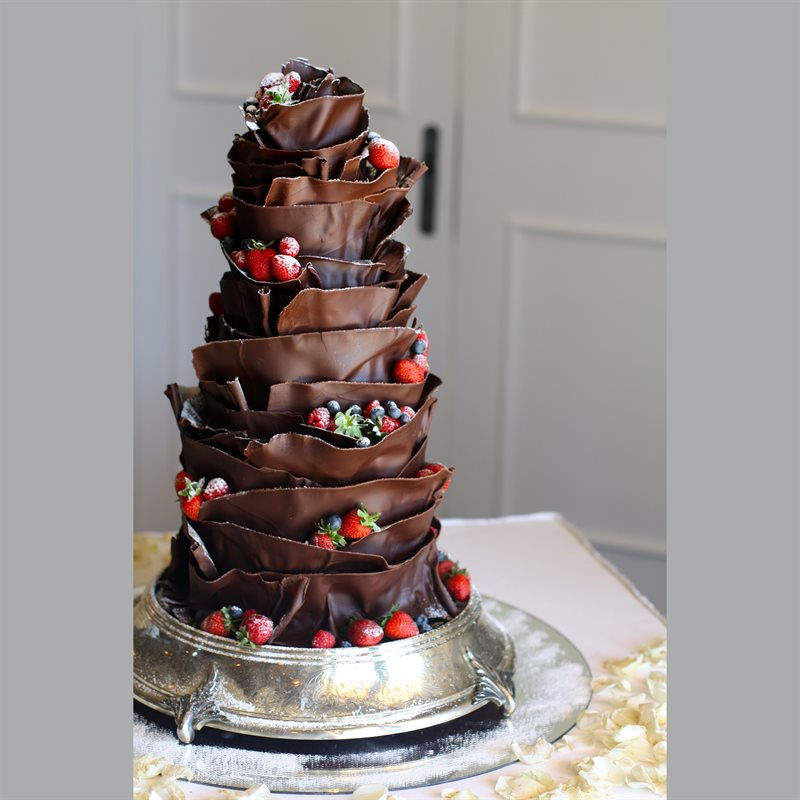
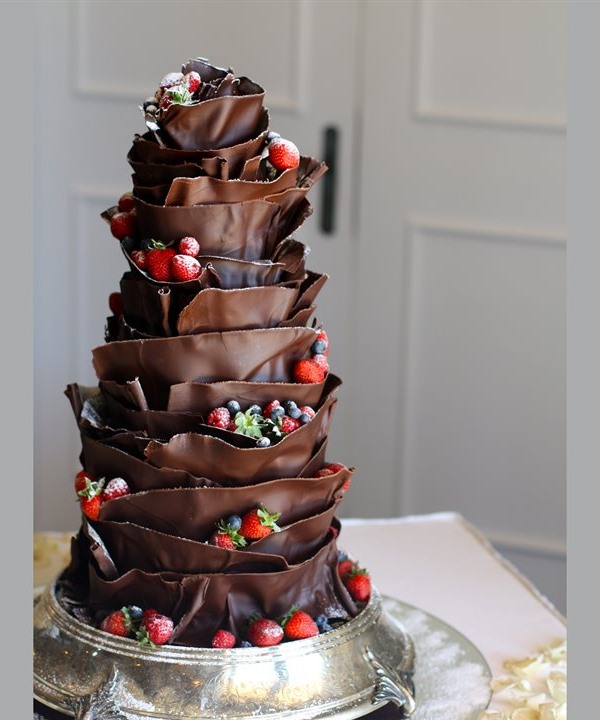
Recrop home-cw-card.jpg — reduce grey side panels, zoom in on cake tower

diff --git a/index.html b/index.html
@@ -677,7 +677,7 @@
     <p class="offerings-section-sub">Sculpted for the day — designed to be the best thing anyone eats.</p>
     <div class="offerings-grid offerings-grid-3">
       <a href="chocolate-weddings.html" class="offering reveal">
-        <div class="offering-img"><img src="images/home-cw-card.jpg?v=2" alt="Tall multi-tier dark couverture chocolate wedding cake with sculpted ruffles, berries and silver pedestal" loading="lazy"/></div>
+        <div class="offering-img"><img src="images/home-cw-card.jpg?v=3" alt="Tall multi-tier dark couverture chocolate wedding cake with sculpted ruffles, berries and silver pedestal" loading="lazy"/></div>
         <h3 class="offering-title">Couverture Chocolate</h3>
         <p class="offering-body">Dark chocolate artistry — every petal, ruffle, and spiral sculpted by hand from premium couverture. Dramatic, deeply flavoured, designed to serve as dessert.</p>
         <span class="offering-cta">View Portfolio &rarr;</span>
